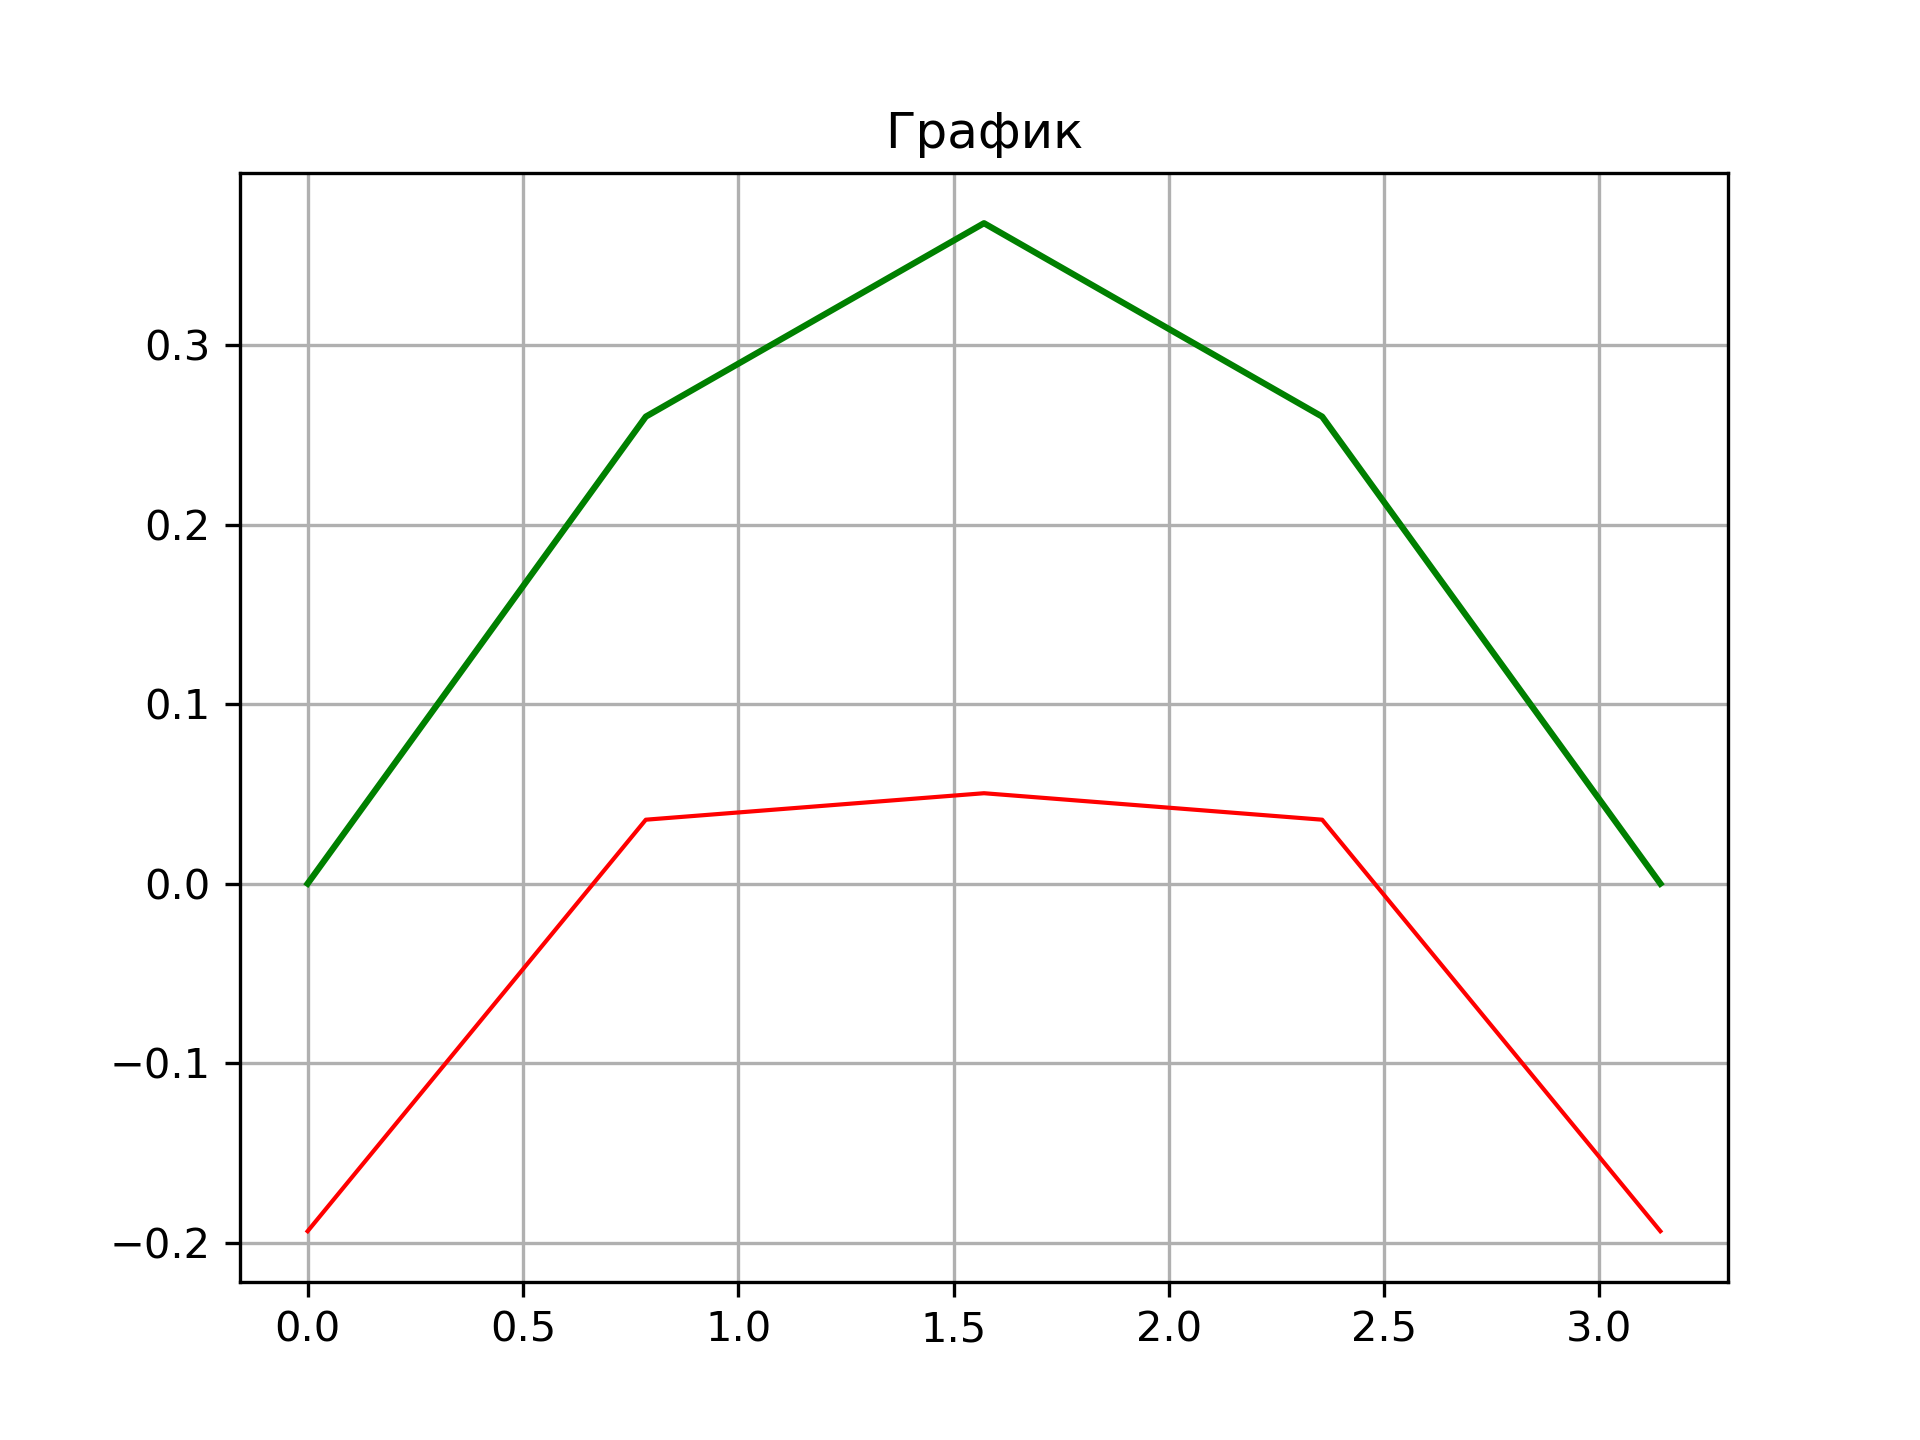
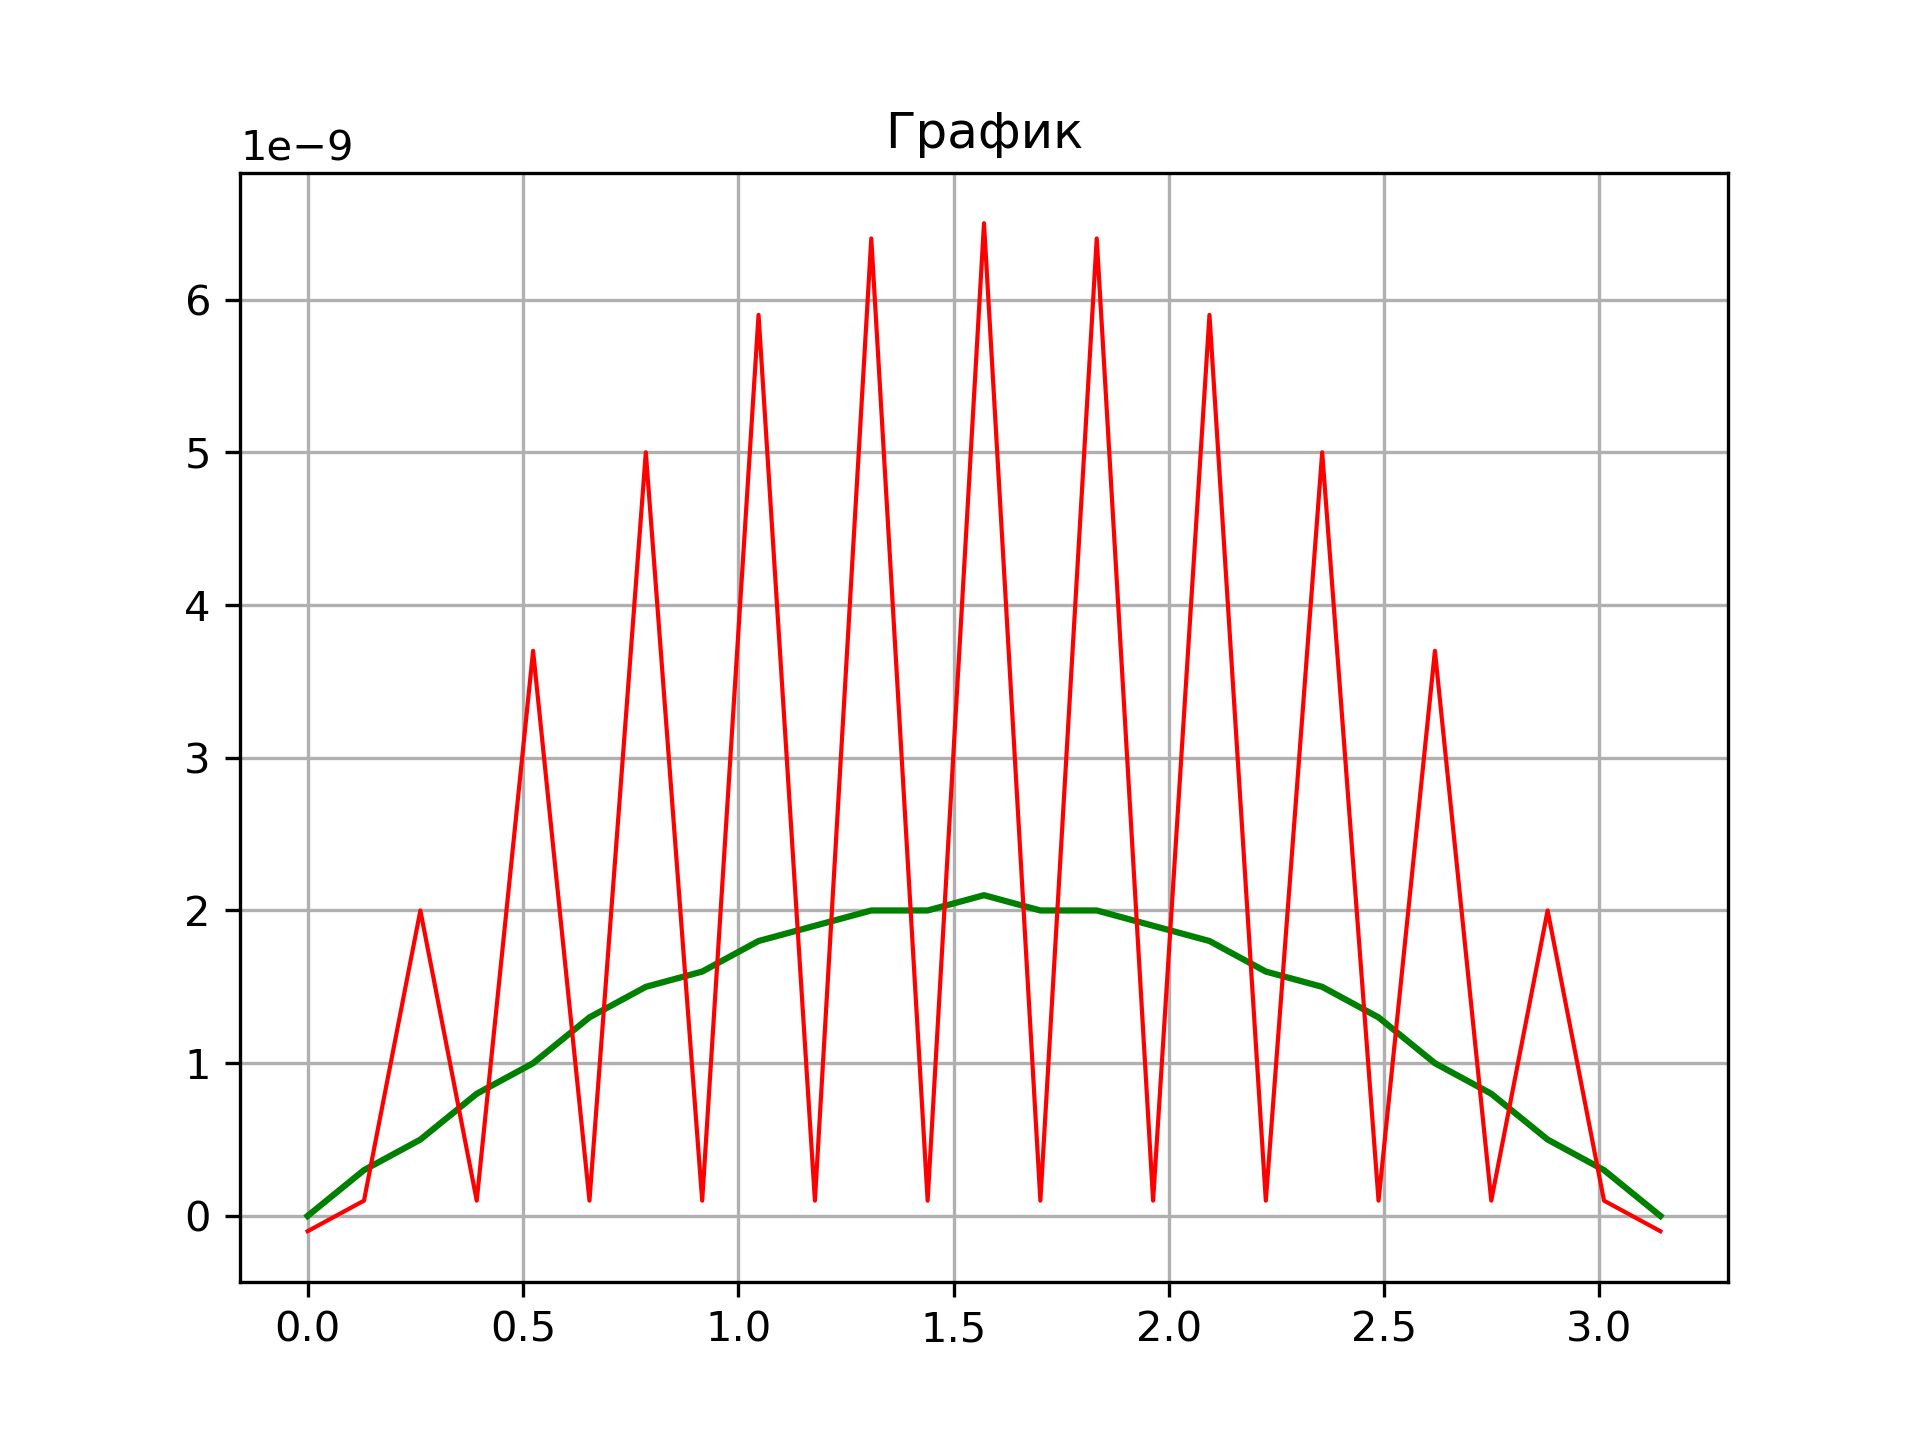
Реализация явного и явно-неявного метода

diff --git a/lab1/laba.py b/lab1/laba.py
@@ -31,7 +31,7 @@ def select_method(method):
     def calculate_points(u, h, t, a, approximation):
         N = u.shape[1] - 1
         last_layer = u.shape[0] - 1
-        h_2 = round(h ** 2, 10); t_2 = round(t ** 2, 10)
+        h_2 = round(h ** 2, 10); a_2 = round(a ** 2, 10)
         f1 = f1_a(a)
         f2 = f2_a(a)
         if teta == 0:
@@ -44,7 +44,22 @@ def select_method(method):
                     else:
                         u[k, i] = round(u[k-1, i] + t * (u[k-1, i+1] - 2*u[k-1, i] + u[k-1, i-1]) / h_2, 10)
         else:
-            pass # неявный метод
+            for k in range(1, last_layer+1):
+                A = zeros((N+1, N+1))
+                B = zeros((N+1))
+                for i, _ in enumerate(u[k]):
+                    if i == 0:
+                        A[0, 0], A[0, 1], A[0, 2], B[0] = approximation(u, k, h, t, a, f1, f2, i=0)
+                    elif i == N:
+                        A[N, N], A[N, N-1], A[N, N-2], B[N] = approximation(u, k, h, t, a, f1, f2, i=N)
+                        break
+                    else:
+                        A[i][i - 1] = teta * a / (h ** 2)
+                        A[i][i] = -2 * teta * a / (h ** 2) - (1 / t)
+                        A[i][i + 1] = teta * a / (h ** 2)
+                        B[i] = u[k - 1, i] * (2 * a * (1 - teta) / (h ** 2) - (1 / t)) - (1 - teta) * a * \
+                            u[k - 1][i + 1] / (h ** 2) - a * (1 - teta) * u[k - 1, i - 1] / (h ** 2)
+                u[k] = around(linalg.solve(A, B), decimals=10)
         return u
     return calculate_points
 
@@ -52,13 +67,14 @@ def twopoint_approximation__first_order(u, k, h, t, a, f1, f2, **kwargs):
     """Двухточечная аппроксимация 1-ого порядка\n\nu - заполняемая матрица\n\nk - слой заполнения\n\nh - шаг по иксу"""
     N = u.shape[1] - 1
     if 'i' in kwargs:
+        
         if kwargs['i'] == 0:
-            return None
+            return 3, -4, 1, -2 * h * f1(t * k)
         elif kwargs['i'] == N:
-            return None
+            return 3, -4, 1, 2 * h * f2(t * k)
     else:
-        u[k, 0] = round(u[k, 1] - h * f1(t * k), 10)
-        u[k, N] = round(u[k, N-1] + h * f2(t * k), 10)
+        u[k, 0] = round((u[k, 1] - h * f1(t * k)) / 10, 10)
+        u[k, N] = round((u[k, N-1] + h * f2(t * k)) / 10, 10)
     return u
 
 def twopoint_approximation__second_order(u, k, h, t, a, f1, f2, **kwargs):
@@ -66,12 +82,12 @@ def twopoint_approximation__second_order(u, k, h, t, a, f1, f2, **kwargs):
     N = u.shape[1] - 1
     if 'i' in kwargs:
         if kwargs['i'] == 0:
-            return None
+            return (2 * a * t + h**2) / (2 * a * t), -1, 0, h**2 / (2 * a * t) * u[k-1, 0] - h * f1(t * k)
         elif kwargs['i'] == N:
-            return None
+            return (2 * a * t + h**2) / (2 * a * t), -1, 0, h**2 / (2 * a * t) * u[k-1, N] + h * f2(t * k)
     else:
-        u[k, 0] = round((2*a*t) / (2*a*t + h**2) * (u[k, 1] + h**2 / (2*a*t) * u[k-1, 0] - h * f1(t*k)), 10)
-        u[k, N] = round((2*a*t) / (2*a*t + h**2) * (u[k, N-1] + h**2 / (2*a*t) * u[k-1, N] + h * f2(t*k)), 10)
+        u[k, 0] = round((2*a*t) / (2*a*t + h**2 + 10) * (u[k, 1] + h**2 / (2*a*t) * u[k-1, 0] - h * f1(t*k)), 10)
+        u[k, N] = round((2*a*t) / (2*a*t + h**2 + 10) * (u[k, N-1] + h**2 / (2*a*t) * u[k-1, N] + h * f2(t*k)), 10)
     return u
 
 def threepoint_approximation__second_order(u, k, h, t, a, f1, f2, **kwargs):
@@ -79,50 +95,13 @@ def threepoint_approximation__second_order(u, k, h, t, a, f1, f2, **kwargs):
     N = u.shape[1] - 1
     if 'i' in kwargs:
         if kwargs['i'] == 0:
-            return None
+            return 1, -1, 0, -h * f1(t * k)
         elif kwargs['i'] == N:
-            return None
+            return 1, -1, 0, h * f2(t * k)
     else:
-        u[k, 0] = round(1/3 * (4 * u[k, 1] - u[k, 2] - 2 * h * f1(t*k)), 10)
-        u[k, N] = round(1/3 * (4 * u[k, N-1] - u[k, N-2] + 2 * h * f2(t*k)), 10)
+        u[k, 0] = round(1/30 * (4 * u[k, 1] - u[k, 2] - 2 * h * f1(t*k)), 10)
+        u[k, N] = round(1/30 * (4 * u[k, N-1] - u[k, N-2] + 2 * h * f2(t*k)), 10)
     return u
-
-# def explicit_method(u, h, t, approximation):
-#     """Явный метод\n\nu - заполняемая матрица\n\nh - шаг по иксу\n\nt - шаг по времени\n\napproximation - метод аппрокисмации"""
-#     N = u.shape[1] - 1
-#     last_layer = u.shape[0] - 1
-#     h = h**2; t = t**2 # Возведение h и t в квадрат для экономии времени при расчете слоя
-#     for k in range(2, last_layer+1):
-#         for i, _ in enumerate(u[k]):
-#             if i == 0:
-#                 continue
-#             elif i == N:
-#                 u = approximation(u, k, sqrt(h), sqrt(t))
-#                 break
-#             u[k, i] = t/h * u[k-1, i-1] + (2*h - 5*h*t - 2*t)/h * u[k-1, i] + t/h * u[k-1, i+1] - u[k-2, i]
-#             u[k, i] = u[k, i]
-#     return u
-
-# def implicit_method(u, h, t, approximation):
-#     """Неявный метод\n\nu - заполняемая матрица\n\nh - шаг по иксу\n\nt - шаг по времени\n\napproximation - метод аппрокисмации"""
-#     N = u.shape[1] - 1
-#     last_layer = u.shape[0] - 1
-#     for k in range(2, last_layer+1):
-#         A = zeros((N+1, N+1))
-#         B = zeros((N+1))
-#         for i, _ in enumerate(u[k]):
-#             if i == 0:
-#                 A[i, 0], A[i, 1], A[i, 2], B[i] = approximation(u, k, h, t, i=0)
-#             elif i == N:
-#                 A[N, N], A[N, N-1], A[N, N-2], B[N] = approximation(u, k, h, t, i=N)
-#                 break
-#             else:
-#                 A[i][i - 1] = 1 / h**2
-#                 A[i][i] = -1/t**2 - 2/h**2 - 5
-#                 A[i][i + 1] = 1 / h**2
-#                 B[i] = (-2 * u[k-1, i] + u[k-2, i]) / t**2
-#         u[k] = linalg.solve(A, B)
-#     return u
 
 def get_error(split_x, split_t, u, N, last_layer, U):
     error = zeros((last_layer))
@@ -183,6 +162,3 @@ def solve(method, approximation, num_split, t_end, sigma, a):
     plt.title('Погрешность')
     plt.savefig('error.png', format='png', dpi=300)
     plt.clf()
-
-# if __name__ == '__main__':
-#     solve('Явный', 'Двухточечная 2-ого порядка', '1-ого порядка', 2 * pi, 50, 0.1)
